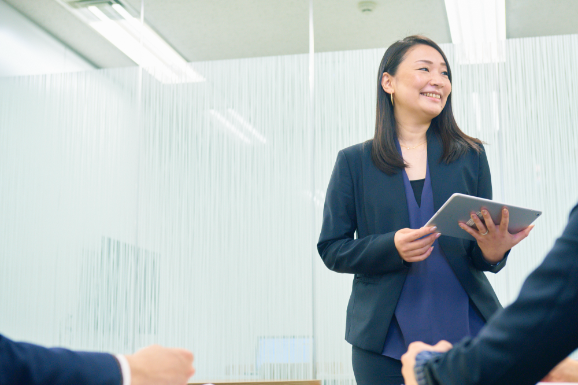
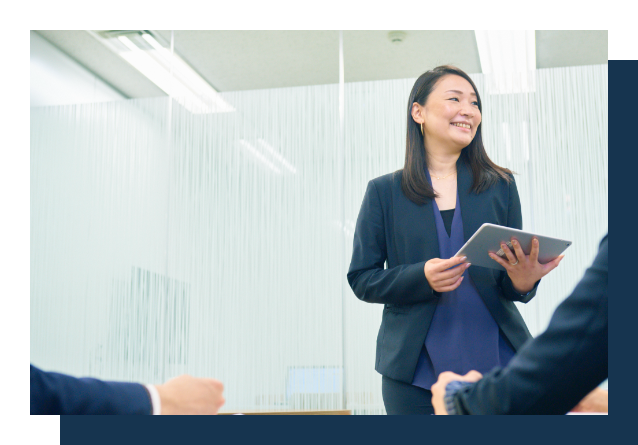
peopleページ画像編集

diff --git a/src/views/PeoplePage.vue b/src/views/PeoplePage.vue
@@ -40,12 +40,12 @@
             alt="people1"
           />
           <p
-            class="main-catch-font lg:mb-5 mb-3 text-3xl pt-16 pr-16 pl-4 lg:pl-0 lg:pt-0 lg:pr-0 lg:text-5xl text-left"
+            class="main-catch-font lg:mb-5 mb-3 text-3xl pt-16 pr-16 pl-4 lg:pl-0 lg:pt-0 lg:pr-0 lg:text-4xl text-left"
           >
             心躍る百貨店を
           </p>
            <p
-            class="main-catch-font pr-16 text-3xl pl-4 lg:pl-0 lg:pt-0 lg:pr-0 lg:text-5xl text-left"
+            class="main-catch-font pr-16 text-3xl pl-4 lg:pl-0 lg:pt-0 lg:pr-0 lg:text-4xl text-left"
           > 
             思い描いて
           </p>
@@ -88,26 +88,26 @@
     </section>
 
     <section
-      class="question col-span-9 col-start-3 lg:flex pt-10 px-5 xl:pt-30"
+      class="question col-span-10 col-start-3 lg:flex pt-20 px-5 xl:pt-30"
     >
-      <div class="left-content image-absolute pb-48 mb-10 lg:pb-0">
-        <div class="white-box bg-white"></div>
-        <div class="img-box lg:w-screen">
+      <div class="left-content pb-48 mb-10 lg:pb-0">
+        <!-- <div class="white-box bg-white"></div> -->
+        <div class="img-box">
           <img
             src="../assets/images/person6-2.png"
             class="pr-10 lg:pr-16"
             alt="persion2"
           />
         </div>
-        <div class="blue-box"></div>
+        <!-- <div class="blue-box"></div> -->
       </div>
       <div
-        class="right-content text-center question-vertical mx-auto pl-16 lg:ml-auto lg:mr-32 lg:float-right pt-32"
+        class="right-content text-center question-vertical mx-auto"
       >
         <div class="loupe-img relative h-3 w-16">
           <img
             src="../assets/loupe.png"
-            class="absolute -top-20 right-10"
+            class="absolute top-16 right-10"
             alt="loupe"
           />
         </div>
@@ -243,23 +243,25 @@
       class="question col-span-9 col-start-3 lg:mt-20 lg:flex pt-10 px-5 xl:pt-30"
     >
       <div class="left-content image-absolute pb-48 mb-10 lg:pb-0">
-        <div class="white-box bg-white"></div>
-        <div class="img-box lg:w-screen">
+        <!-- <div class="white-box bg-white"></div> -->
+        <div class="img-box">
           <img
             src="../assets/images/person6-3.png"
             class="pr-10 lg:pr-16"
+
+
             alt="persion3"
           />
         </div>
-        <div class="blue-box"></div>
+        <!-- <div class="blue-box"></div> -->
       </div>
       <div
-        class="right-content text-center question-vertical mx-auto pl-16 lg:ml-auto lg:mr-32 lg:float-right pt-24"
+        class="right-content text-center question-vertical mx-auto pl-16 lg:ml-auto lg:mr-32"
       >
         <div class="loupe-img relative h-3 w-16">
           <img
             src="../assets/loupe.png"
-            class="absolute right-10"
+            class="relative top-10 right-10"
             alt="loupe"
           />
         </div>
@@ -348,7 +350,7 @@
       </div>
       <div class="bottom-content bg-white text-center md:py-7 pt-10 lg:ml-8">
         <h6
-          class="column-title underline pb-3 pt-8 lg:pt-10 text-2xl md:text-4xl"
+          class="column-title underline pb-3 pt-8 lg:pt-10 text-2xl md:text-3xl"
         >
           東急線と共に歩む
         </h6>

diff --git a/src/assets/style/style.css b/src/assets/style/style.css
@@ -63,7 +63,7 @@ hr {
   position: relative;
 }
 .white-box, .img-box, .blue-box {
-  position: absolute;
+  /* position: absolute; */
 }
 .white-box{
   width: 550px;
